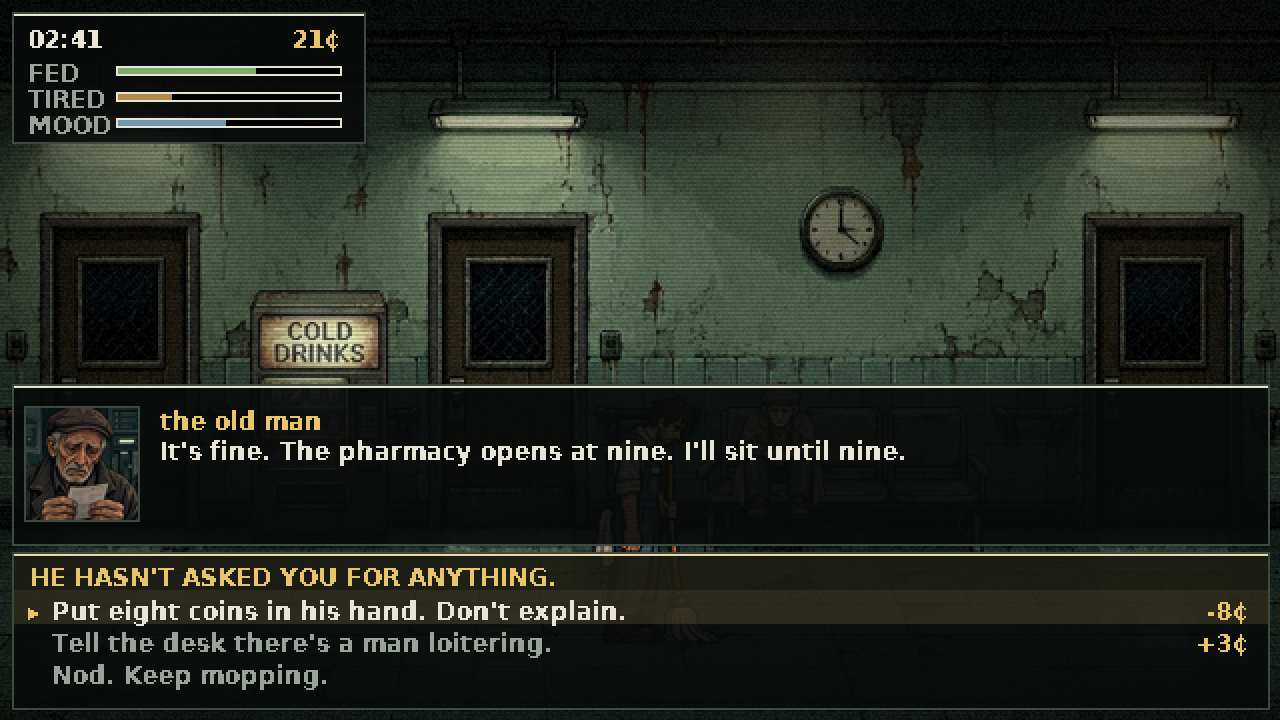
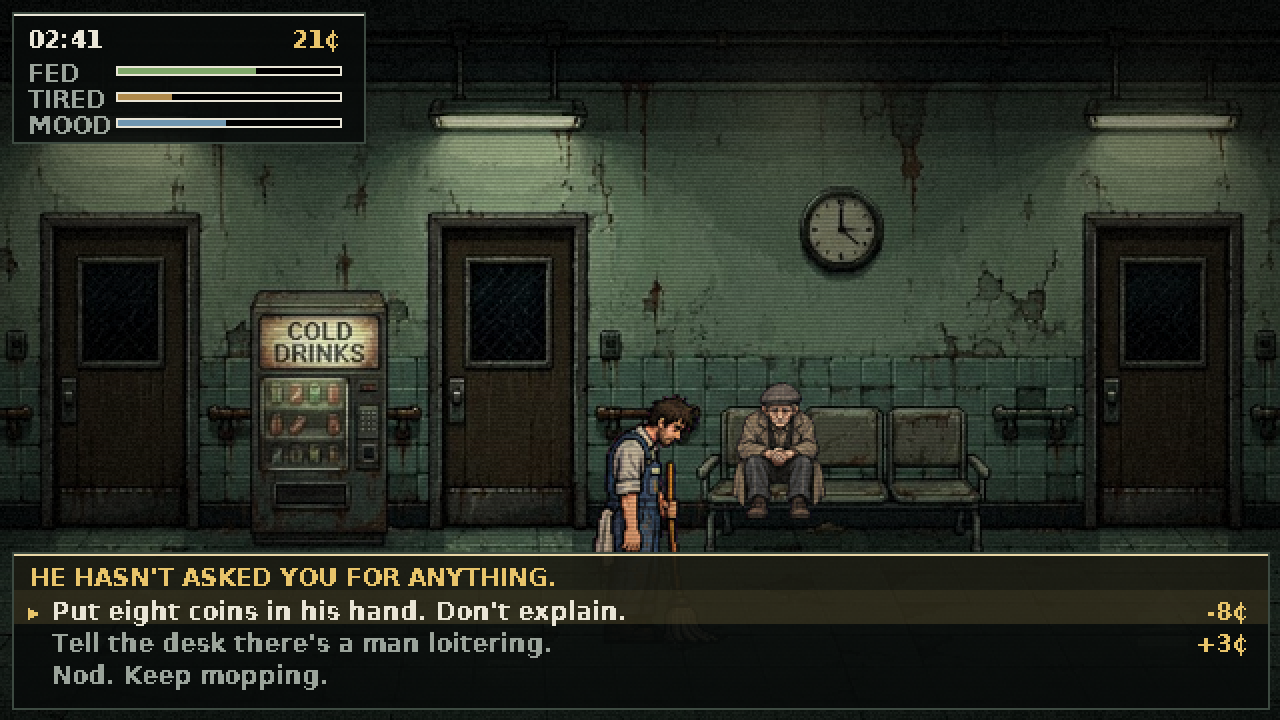
Split the dialogue and choice frames, because the game never overlaps them
The choice screenshot showed a speech panel and a choice panel stacked on
screen at once, which is a state the engine cannot produce: updateDialogue
sets dlg to null before invoking onDone, and only then does askChoice open
the menu. He finishes talking, and then he is asked about.

Two frames now, in that order, and the speech panel carries its press-E
chevron. Also filled in the repository link.

Claude-Session: https://claude.ai/code/session_01E8RzwFfRoFiqBzhQ35xh2x

Changed region(s): [[0.0, 0.5194, 1.0, 0.7639], [0.75, 0.7333, 1.0, 0.7639], [0.875, 0.6722, 0.9062, 0.7028]]

diff --git a/tools/make_screenshot.py b/tools/make_screenshot.py
@@ -126,7 +126,7 @@ def hud(im, clock, coins, fed, tired, mood, strip=None, strip_icon="▪"):
         text(im, strip, 24, y + 4, INK if strip_icon == "▸" else (200, 205, 190, 255))
 
 
-def speech(im, name, portrait, line, bottom=354):
+def speech(im, name, portrait, line, bottom=354, more=True):
     d = ImageDraw.Draw(im, "RGBA")
     y = bottom - 80
     panel(im, 6, y, W - 12, 80)
@@ -141,6 +141,8 @@ def speech(im, name, portrait, line, bottom=354):
         text(im, name, tx, ty, GOLD); ty += 15
     for l in wrap(line, W - tx - 22):
         text(im, l, tx, ty, INK); ty += 14
+    if more:
+        text(im, "▸", W - 24, y + 80 - 17, GOLD)
 
 
 def choices(im, header, options, selected=0):
@@ -237,19 +239,32 @@ def shot_corridor():
     save(im, "corridor")
 
 
-def shot_choice():
+def _bench_scene():
     im = bg("corridor")
     put(im, "corridor", "oldman.sit", 0, 388, 276, lift=16)
     put(im, "corridor", "mc.idle_mop", 0, 330, 322)
     im = grade(im, "corridor")
     hud(im, "02:41", 21, .62, .24, .48)
-    y = choices(im, "HE HASN'T ASKED YOU FOR ANYTHING.", [
+    return im
+
+
+def shot_dialogue():
+    """He speaks first, and the panel is his alone."""
+    im = _bench_scene()
+    speech(im, "the old man", "oldman",
+           "They filled the prescription an hour ago. Twelve coins. I have four.")
+    save(im, "dialogue")
+
+
+def shot_choice():
+    """Only once he has finished does the question arrive -- the game never
+    draws these two panels at the same time."""
+    im = _bench_scene()
+    choices(im, "HE HASN'T ASKED YOU FOR ANYTHING.", [
         ("Put eight coins in his hand. Don't explain.", "-8¢"),
         ("Tell the desk there's a man loitering.", "+3¢"),
         ("Nod. Keep mopping.", None),
     ])
-    speech(im, "the old man", "oldman",
-           "It's fine. The pharmacy opens at nine. I'll sit until nine.", bottom=y - 4)
     save(im, "choice")
 
 
@@ -322,6 +337,7 @@ def shot_title():
 if __name__ == "__main__":
     shot_title()
     shot_corridor()
+    shot_dialogue()
     shot_choice()
     shot_fire_escape()
     shot_street()

diff --git a/WRITEUP.md b/WRITEUP.md
@@ -27,7 +27,10 @@ _Neither of them has asked you for anything. That is the difficulty._
 
 There are six of them and no more, because there are six portraits and I refuse to give one face two names. An old man four coins short of a prescription. An intern who dropped a patient's charts at three in the morning and cannot pick them up. A man outside theatre 2 who has counted the corridor tiles nine times. A head nurse who needs twenty minutes off the floor and someone who didn't see her leave. A man on the fire landing with thirty coins and a request. A cat.
 
-![The old man, and three ways to answer him](docs/choice.png)
+![The old man says his piece — twelve coins for the prescription, and he has four](docs/dialogue.png)
+_He gets to finish. Nothing is asked of you while he is still talking._
+
+![Only then does the question arrive — three ways to answer him](docs/choice.png)
 _Eight coins is eight coins. So is three._
 
 Every answer costs something you were counting: coins, or minutes off a four-hour clock, or half the sandwich in your pocket. Nobody thanks you at the time.
@@ -75,7 +78,7 @@ It's about seven minutes. Don't rush the locker at the end; that's the part the 
 
 ## Code
 
-*(repository link)*
+https://github.com/miclaldogan/the-next-shift
 
 It runs with no keys at all — silent, on a local ledger, with a hand-written mirror. Every integration degrades instead of breaking, which is the only reason I could keep building at four in the morning when a faucet was dry and a rate limiter had opinions.
 
